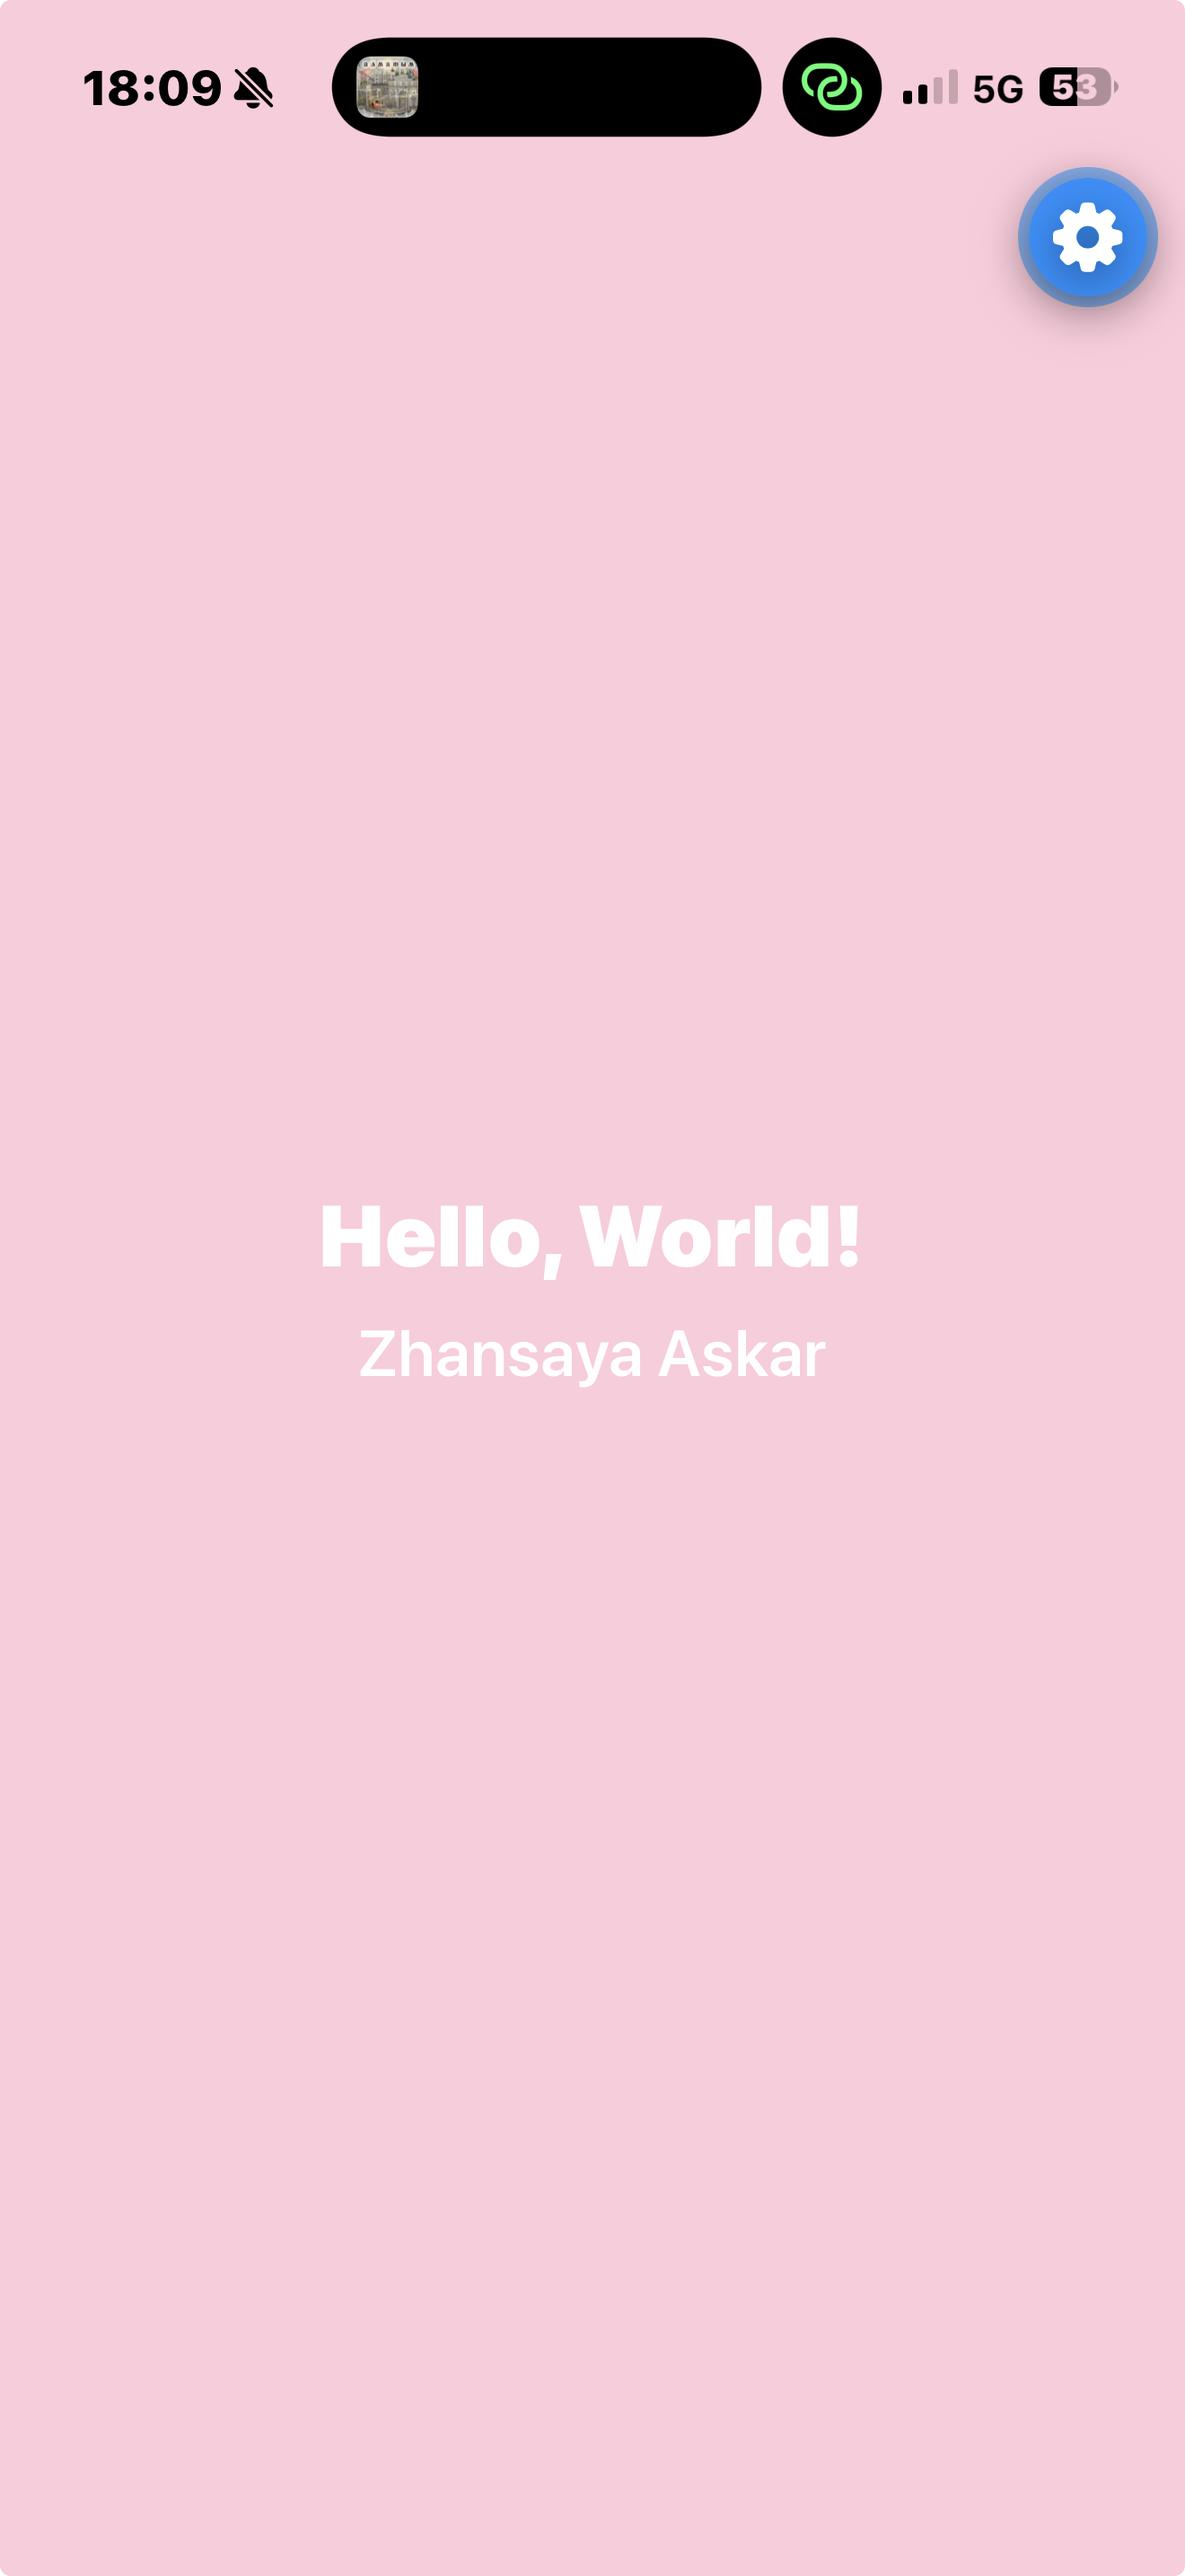
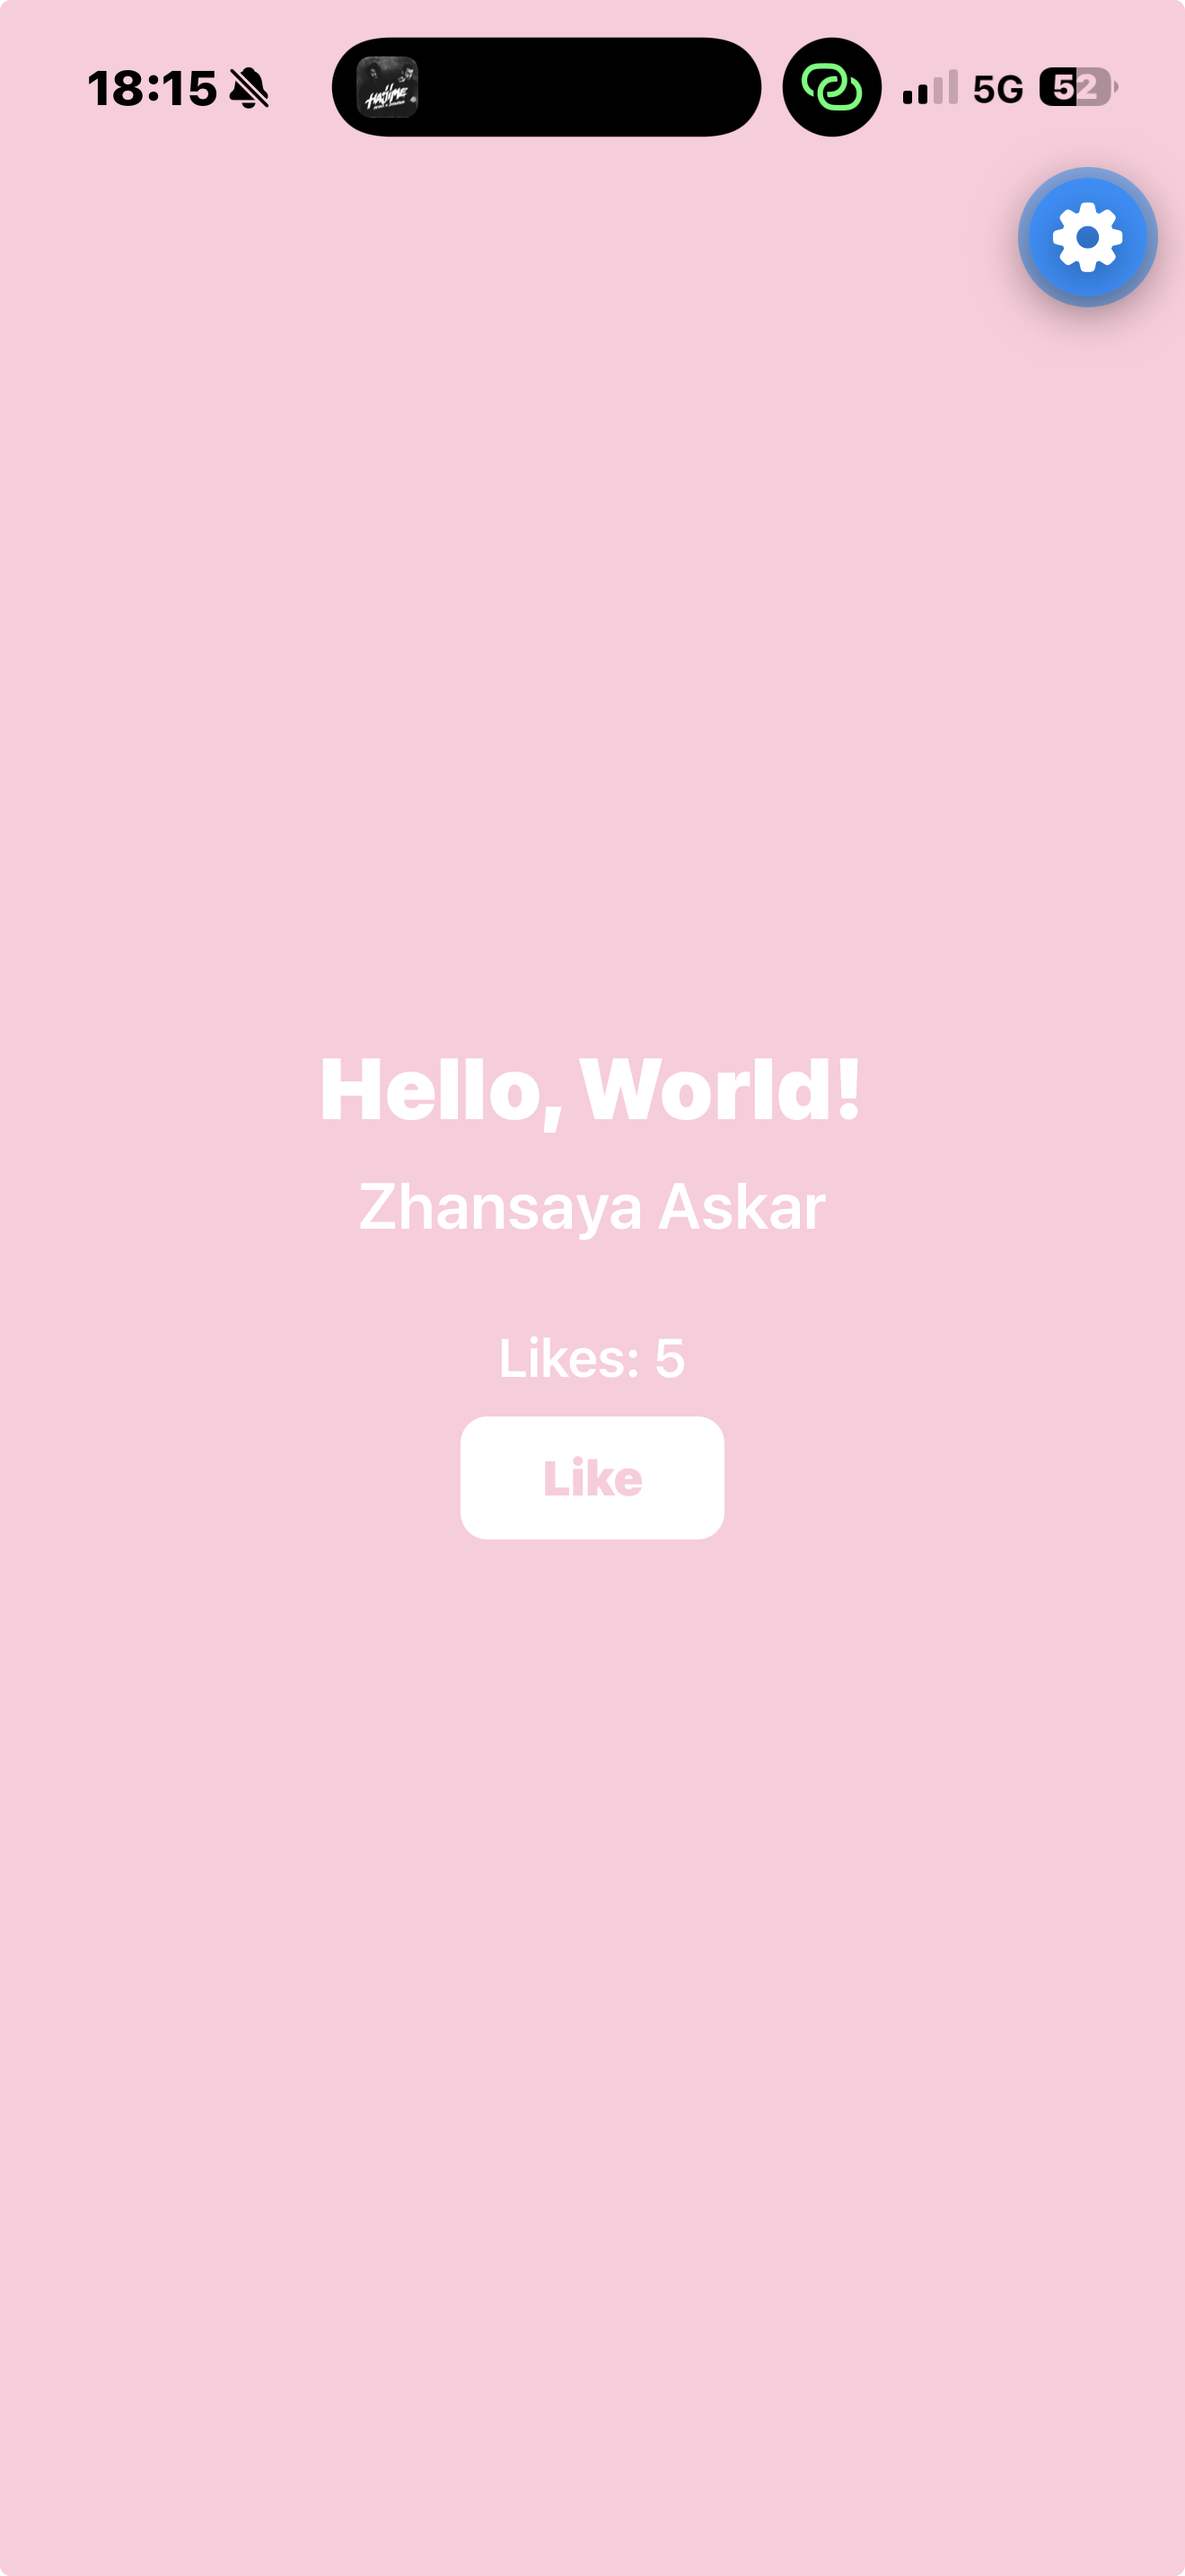
Like counter and device screenshot

Changed region(s): [[0.2485, 0.4034, 0.7455, 0.6206], [0.0621, 0.031, 0.2174, 0.0621], [0.2795, 0.0, 0.3727, 0.0621]]

diff --git a/App.tsx b/App.tsx
@@ -1,10 +1,22 @@
-import { StyleSheet, Text, View } from 'react-native';
+import { useState } from 'react';
+import { StyleSheet, Text, View, Pressable } from 'react-native';
 
 export default function App() {
+  const [likes, setLikes] = useState(0);
+
   return (
     <View style={styles.container}>
       <Text style={styles.helloText}>Hello, World!</Text>
       <Text style={styles.nameText}>Zhansaya Askar</Text>
+      
+      <Text style={styles.likesText}>Likes: {likes}</Text>
+      
+      <Pressable 
+        style={styles.button} 
+        onPress={() => setLikes(likes + 1)}
+      >
+        <Text style={styles.buttonText}>Like</Text>
+      </Pressable>
     </View>
   );
 }
@@ -25,5 +37,24 @@ const styles = StyleSheet.create({
     fontSize: 24,
     marginTop: 10,
     color: '#fff',
+    marginBottom: 30,
+  },
+  likesText: {
+    fontSize: 20,
+    color: '#fff',
+    marginBottom: 10,
+  },
+  button: {
+    backgroundColor: '#fff',
+    paddingVertical: 12,
+    paddingHorizontal: 30,
+    borderRadius: 10,
+    minHeight: 44,
+    justifyContent: 'center',
+  },
+  buttonText: {
+    color: '#FFCBDB',
+    fontSize: 18,
+    fontWeight: 'bold',
   },
 });
